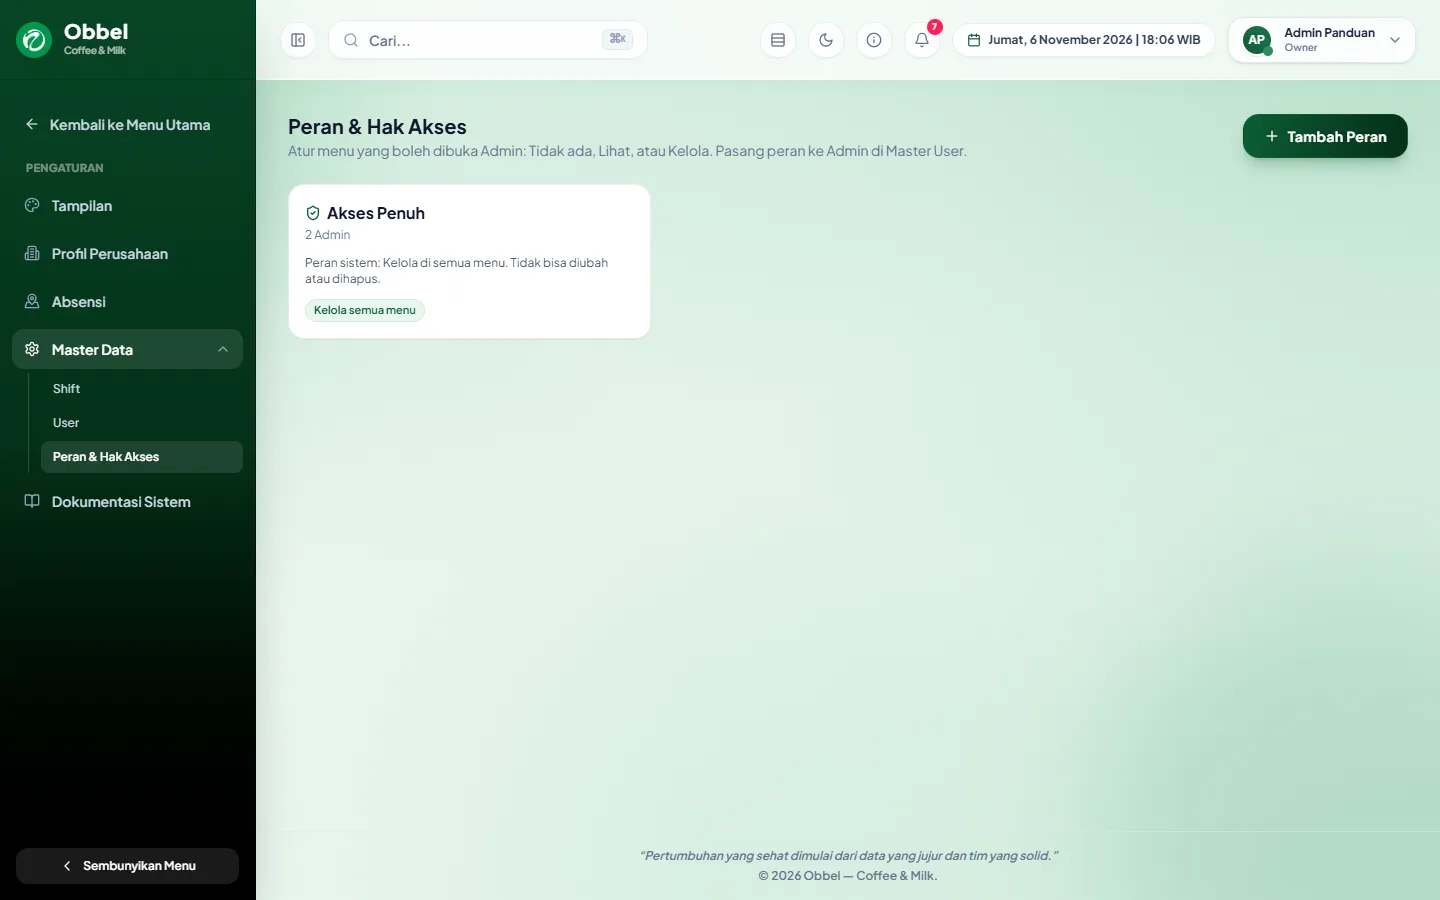
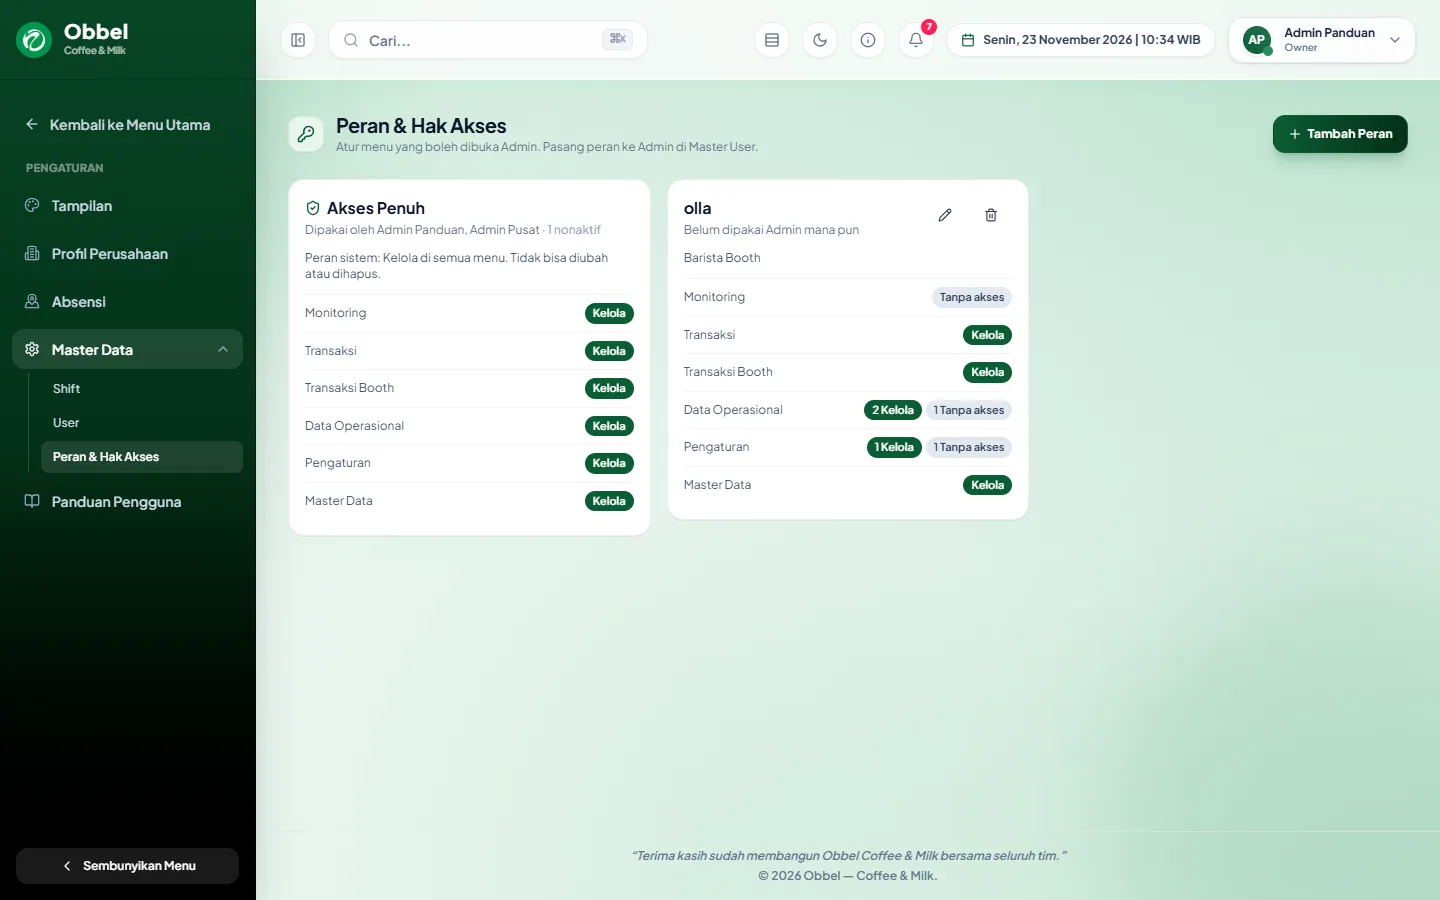
docs(admin_web): update the Peran and Produk guide screens
The Peran & Hak Akses screen was redesigned and the Produk page gained
Kelola Kategori, so their guide entries described the old UI.

- Peran: "Tidak ada" becomes "Tanpa akses", Atur akses explains the
  folded groups and the Atur semua menu, and a new Ubah peran step covers
  the Tinjau Perubahan review.
- Retake admin-peran-1/2 and admin-produk-1/2/3 with
  npm run panduan:screenshot.

diff --git a/apps/admin_web/src/app/panduan/konten/admin.ts b/apps/admin_web/src/app/panduan/konten/admin.ts
@@ -353,14 +353,15 @@ export const LAYAR_ADMIN: LayarPanduan[] = [
     peran: "admin",
     judul: "Peran & Hak Akses",
     ownerOnly: true,
-    ringkasan: "Mengatur menu yang boleh dibuka Admin: Tidak ada, Lihat, atau Kelola.",
+    ringkasan: "Mengatur menu yang boleh dibuka Admin: Tanpa akses, Lihat, atau Kelola.",
     gambar: [
-      { file: "admin-peran-1.webp", keterangan: "Daftar peran beserta jumlah Admin dan aksesnya." },
+      { file: "admin-peran-1.webp", keterangan: "Daftar peran beserta Admin yang memakainya dan ringkasan akses per grup." },
       { file: "admin-peran-2.webp", keterangan: "Form Tambah Peran dengan akses per menu." },
     ],
     langkah: [
       { judul: "Buat peran", isi: "Klik Tambah Peran, isi Nama Peran dan Keterangan." },
-      { judul: "Atur akses", isi: "Pilih Tidak ada, Lihat, atau Kelola untuk setiap menu, atau gunakan Semua Lihat dan Semua Kelola per grup. Klik Simpan Peran." },
+      { judul: "Atur akses", isi: "Buka grup menu, lalu pilih Tanpa akses, Lihat, atau Kelola untuk setiap menu, atau gunakan Atur semua per grup. Klik Simpan Peran." },
+      { judul: "Ubah peran", isi: "Klik ikon pensil pada peran. Jika peran dipakai Admin aktif, periksa daftar perubahan di Tinjau Perubahan lalu klik Ya, simpan." },
       { judul: "Pasang ke Admin", isi: "Pasang peran ke akun Admin di menu User, kolom Peran." },
     ],
     perhatian: [
